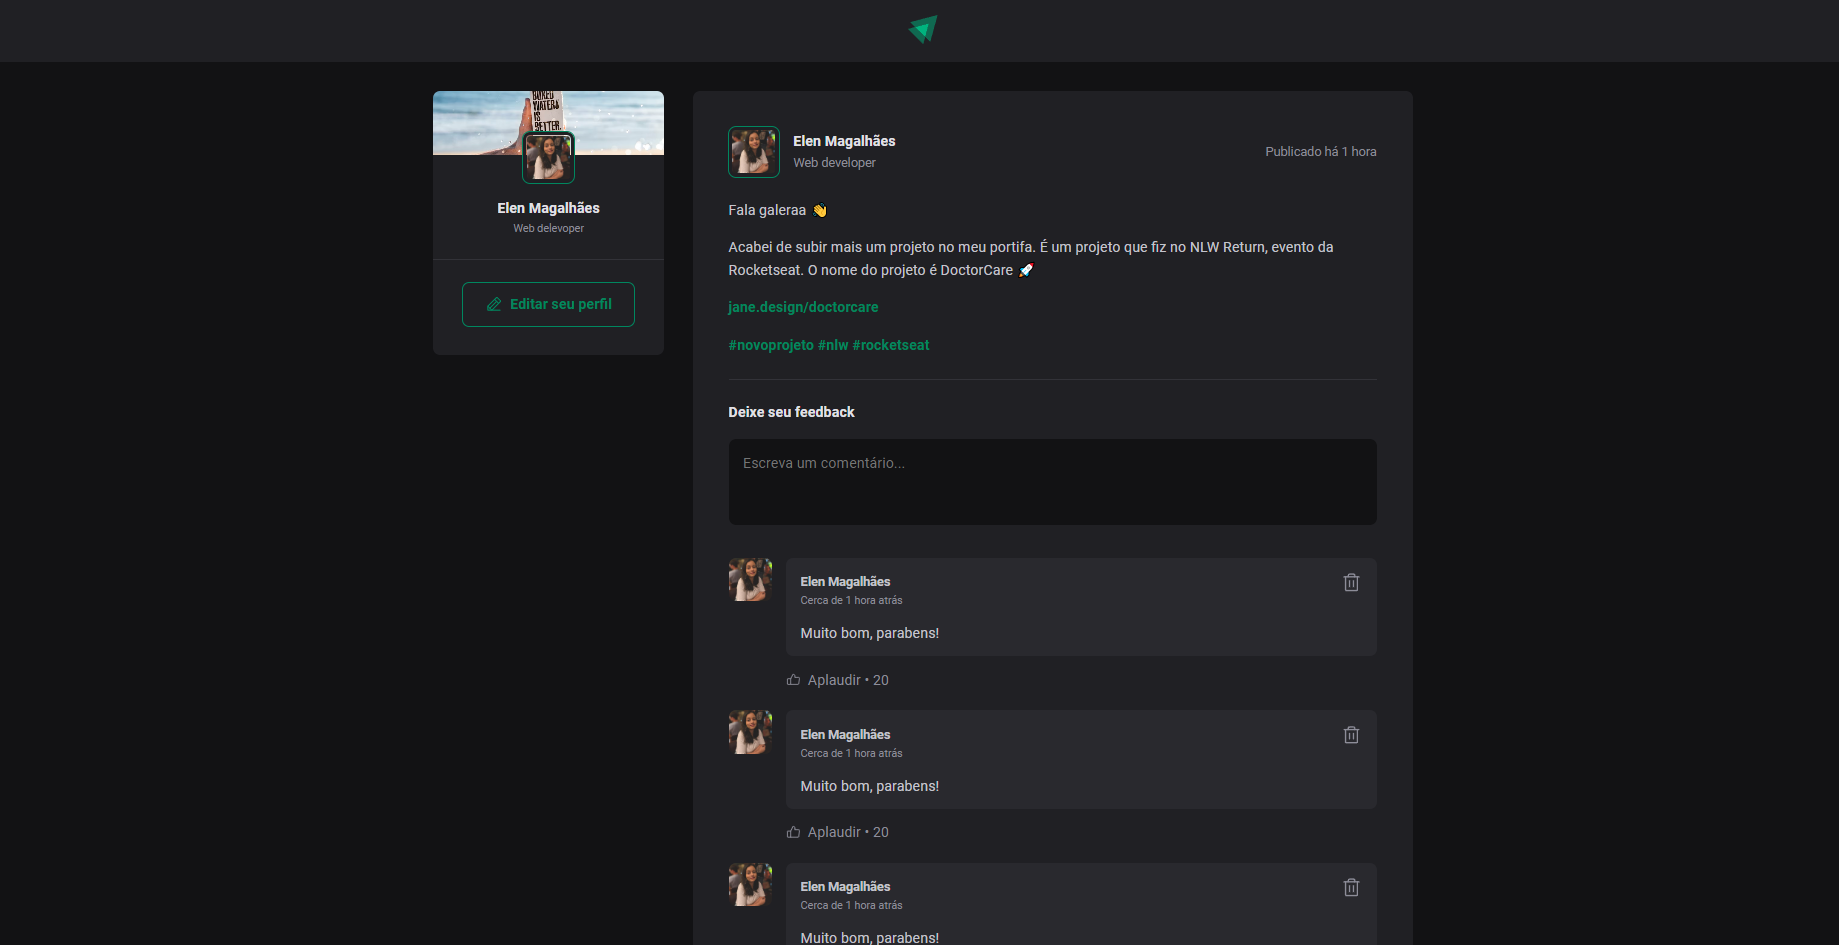
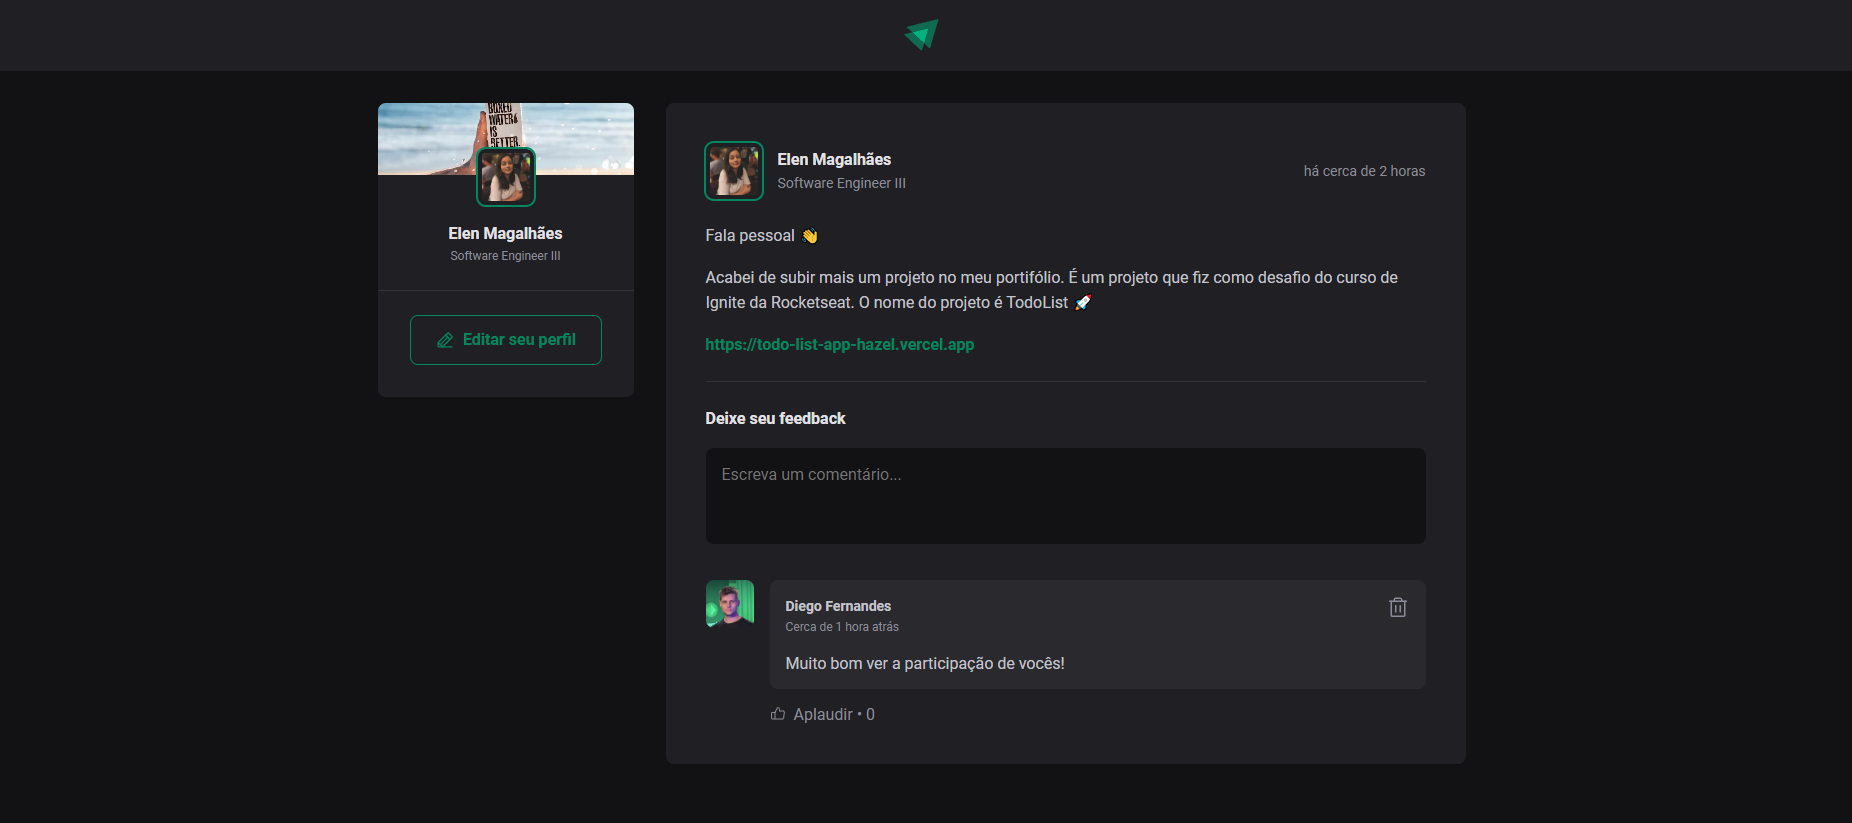
ajustes no projeto

diff --git a/src/App.tsx b/src/App.tsx
@@ -14,36 +14,18 @@ const posts = [
       role: 'Software Engineer III',
     },
     content: [
-      { type: 'paragraph', content: 'Fala galeraa 👋' },
+      { type: 'paragraph', content: 'Fala pessoal 👋' },
       {
         type: 'paragraph',
         content:
-          'Acabei de subir mais um projeto no meu portifa. É um projeto que fiz no NLW Return, evento da Rocketseat. O nome do projeto é DoctorCare 🚀',
+          'Acabei de subir mais um projeto no meu portifólio. É um projeto que fiz como desafio do curso de Ignite da Rocketseat. O nome do projeto é TodoList 🚀',
       },
-      { type: 'link', content: 'jane.design/doctorcare' },
+      { type: 'link', content: 'https://todo-list-app-hazel.vercel.app' },
     ],
-    publishedAt: new Date('2023-01-17 20:00:00'),
-  },
-  {
-    id: 2,
-    author: {
-      avatarUrl: 'https://github.com/diego3g.png',
-      name: 'Diego Fernandes',
-      role: 'CEO @Rocketseat',
-    },
-    content: [
-      { type: 'paragraph', content: 'Fala galeraa 👋' },
-      {
-        type: 'paragraph',
-        content:
-          'Acabei de subir mais um projeto no meu portifa. É um projeto que fiz no NLW Return, evento da Rocketseat. O nome do projeto é DoctorCare 🚀',
-      },
-      { type: 'link', content: 'jane.design/doctorcare' },
-    ],
-    publishedAt: new Date('2023-01-10 15:00:00'),
+    publishedAt: new Date('2023-01-22 12:00:00'),
   },
 ]
-
+console.log(posts)
 function App() {
   return (
     <div>

diff --git a/src/components/Comment.tsx b/src/components/Comment.tsx
@@ -22,13 +22,13 @@ export function Comment({ content, onDeleteComment }: CommentProps) {
 
   return (
     <div className={styles.comment}>
-      <Avatar hasBorder={false} src="https://github.com/elenmagalhaes.png" />
+      <Avatar hasBorder={false} src="https://github.com/diego3g.png" />
 
       <div className={styles.commentContent}>
         <div className={styles.commentBox}>
           <header>
             <div className={styles.authorAndTime}>
-              <strong>Elen Magalhães</strong>
+              <strong>Diego Fernandes</strong>
               <time
                 title="16 de janeiro às 21:10"
                 dateTime="2023-01-16 21:10:45"

diff --git a/src/components/Post.tsx b/src/components/Post.tsx
@@ -18,12 +18,14 @@ interface Author {
 }
 
 interface Content {
-  type: 'paragraph' | 'link'
+  type: string
   content: string
 }
 
 export function Post({ author, content, publishedAt }: PostProps) {
-  const [comments, setComments] = useState(['Post muito bacana'])
+  const [comments, setComments] = useState([
+    'Muito feliz em ver vocês participando dos projetos da Rocketseat',
+  ])
   const [newCommentText, setNewCommentText] = useState('')
 
   const publishedDateFormatted = format(

diff --git a/src/components/Avatar.tsx b/src/components/Avatar.tsx
@@ -5,11 +5,11 @@ interface AvatarProps extends ImgHTMLAttributes<HTMLImageElement> {
   hasBorder?: boolean
 }
 
-export function Avatar({ hasBorder = true, src }: AvatarProps) {
+export function Avatar({ hasBorder = true, ...props }: AvatarProps) {
   return (
     <img
       className={hasBorder ? styles.avatarWithBorder : styles.avatar}
-      src={src}
+      {...props}
     />
   )
 }

diff --git a/src/components/Sidebar.tsx b/src/components/Sidebar.tsx
@@ -13,7 +13,7 @@ export function Sidebar() {
       <div className={styles.profile}>
         <Avatar src="https://avatars.githubusercontent.com/u/51779470?v=4" />
         <strong>Elen Magalhães</strong>
-        <span>Web delevoper</span>
+        <span>Software Engineer III</span>
       </div>
 
       <footer>

diff --git a/src/components/Comment.module.css b/src/components/Comment.module.css
@@ -45,7 +45,7 @@
   color: var(--gray-400);
   cursor: pointer;
   line-height: 0;
-  bordeer-radius: 4px;
+  border-radius: 4px;
 }
 
 .commentBox header button:hover {
@@ -80,6 +80,6 @@
 }
 
 .commentContent footer button span::before {
-  content: "\2022";
+  content: '\2022';
   padding: 0 0.25rem;
 }

diff --git a/README.md b/README.md
@@ -1,4 +1,4 @@
-<h1 align="center"> Ignite Feed </h1>
+<h1 align="center"> IGNITE FEED </h1>
 
 <p align="center">
 Projeto desenvolvido em conjunto com a Rocketseat com a finalidade de aprimorar os conceitos de ReactJS.
@@ -7,6 +7,7 @@ Projeto desenvolvido em conjunto com a Rocketseat com a finalidade de aprimorar 
 <p align="center">
   <a href="#-tecnologias">Tecnologias</a>&nbsp;&nbsp;&nbsp;|&nbsp;&nbsp;&nbsp;
   <a href="#-projeto">Projeto</a>&nbsp;&nbsp;&nbsp;|&nbsp;&nbsp;&nbsp;
+  <a href="#-próximos-passos">Próximos passos</a>&nbsp;&nbsp;&nbsp;|&nbsp;&nbsp;&nbsp;
   <a href="#-layout">Layout</a>&nbsp;&nbsp;&nbsp;|&nbsp;&nbsp;&nbsp;
   <a href="#memo-licença">Licença</a>
 </p>
